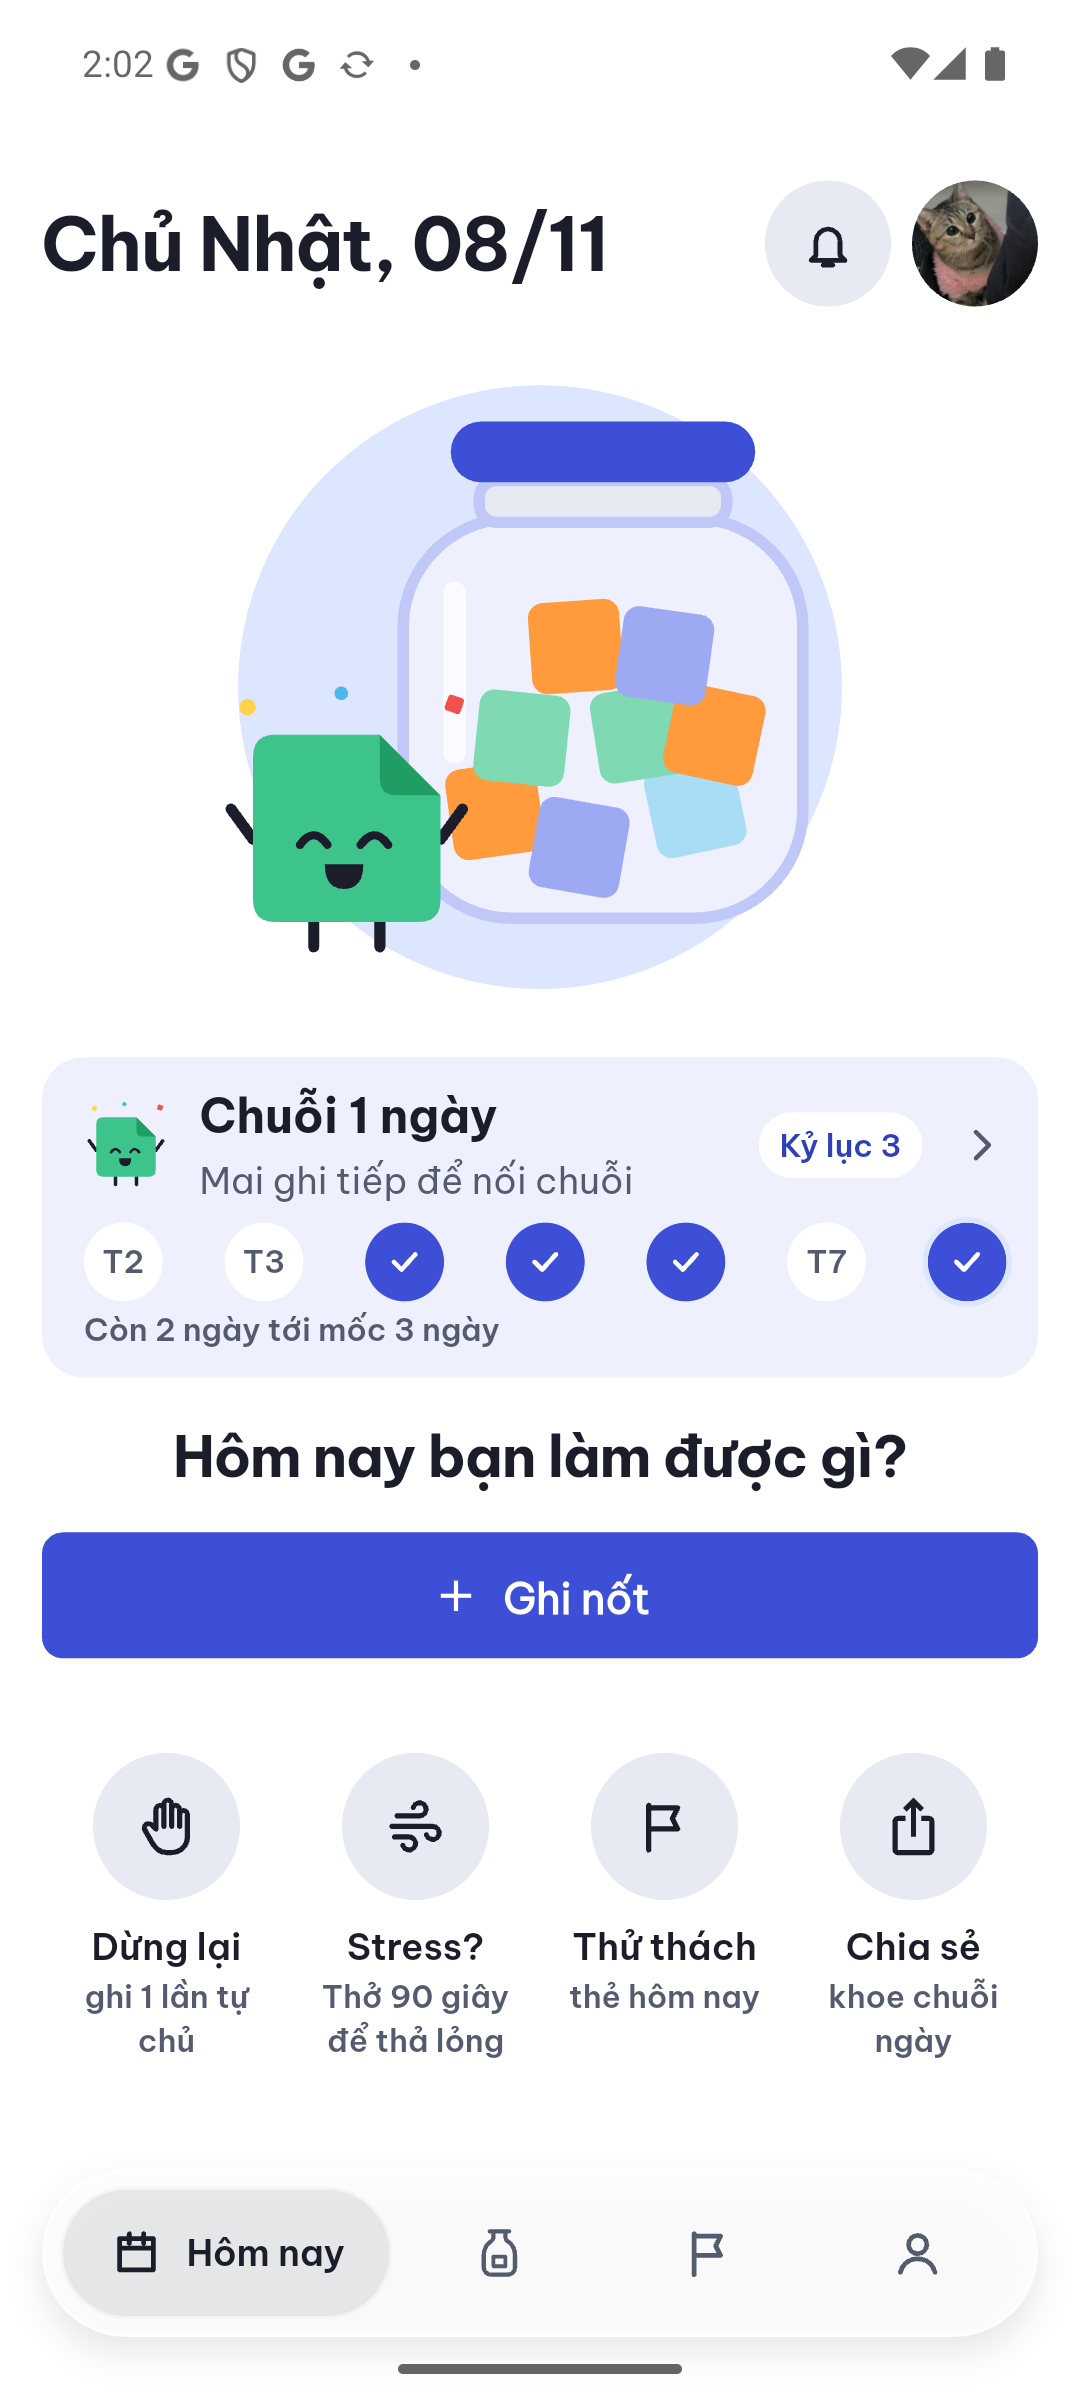
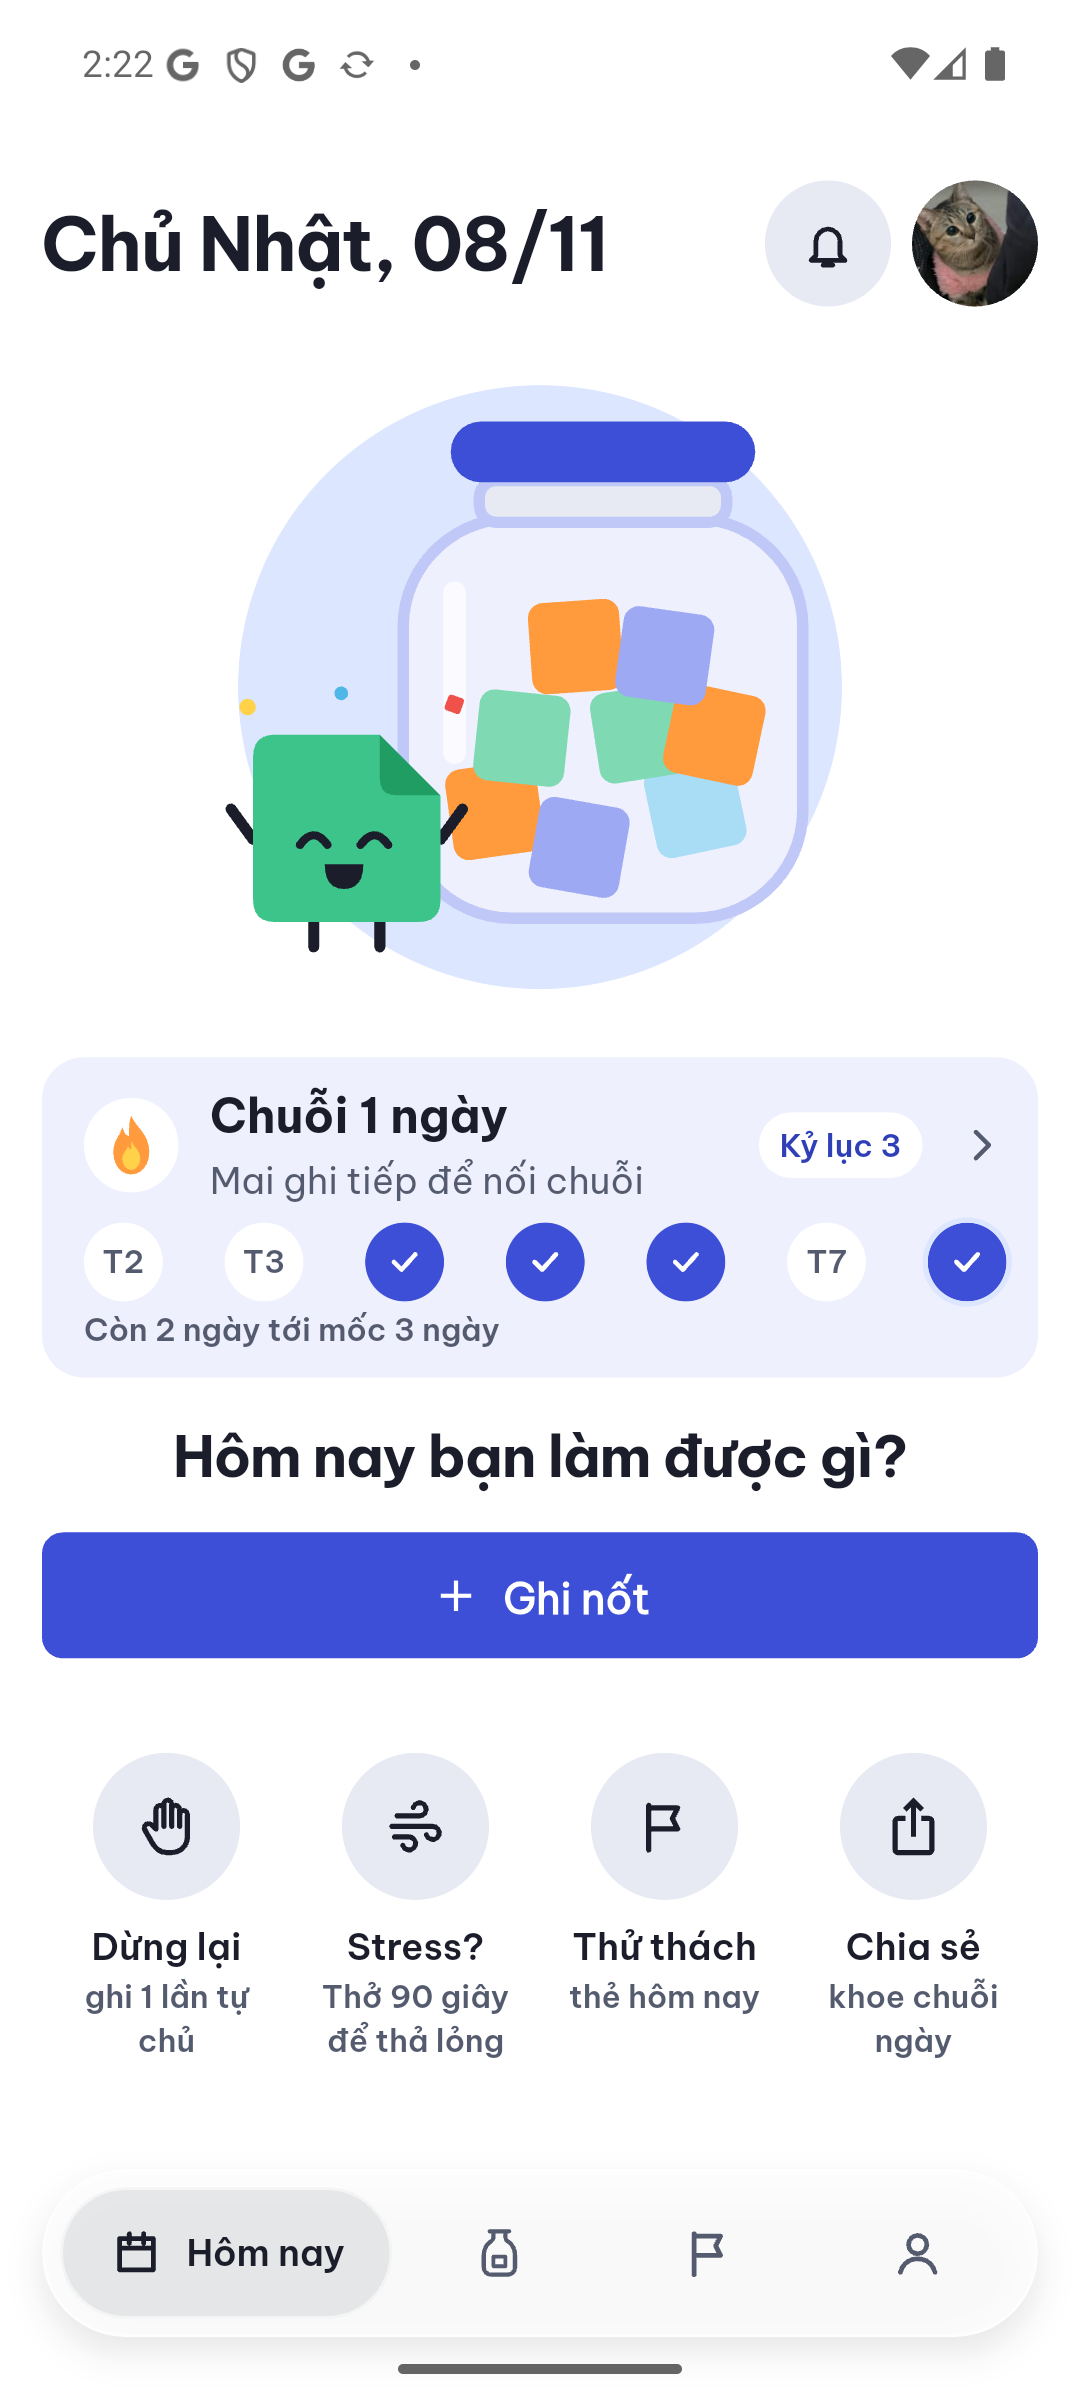
feat(streak): use a flat flame instead of a mascot on the streak card
A small Tụi Nốt at the top of the card repeated the big mascot by the
jar right above it and read as a duplicate. The card now shows a flat
two-tone flame (heat4 / heat3 from the app palette) in a white circle,
grey when there is no streak yet. Both icons are new SVGs in
assets/icons/.

Changed region(s): [[0.1833, 0.4375, 0.5806, 0.5], [0.0917, 0.4375, 0.1528, 0.5]]

diff --git a/lib/widgets/streak_card.dart b/lib/widgets/streak_card.dart
@@ -5,16 +5,15 @@ import '../models/streak.dart';
 import '../theme/app_colors.dart';
 import '../theme/app_tokens.dart';
 import '../utils/vi_date_format.dart';
-import 'mascot.dart';
 
 /// Thẻ chuỗi ngày ở S02: số ngày liền có nốt, kỷ lục, 7 ngày gần nhất và
 /// tiến độ tới mốc kế tiếp. Chạm để mở Thống kê (S11b).
 ///
-/// Theo phong cách của app (góp ý của giảng viên): nền lavender như hũ ở trên,
-/// Tụi Nốt (đổi nét mặt theo chuỗi) thay cho icon lửa của Material, dải 7 ngày có nhãn thứ như lịch
-/// S11c, và chỉ dùng màu primary cho phần "đã làm" để thẻ không lệch tông cam
-/// với nút Ghi nốt bên dưới. Thẻ vẫn gọn để các lối tắt còn với tới trên màn
-/// 360 × 800.
+/// Theo phong cách của app (góp ý của giảng viên): nền lavender như hũ ở trên;
+/// ngọn lửa vẽ phẳng trong ô trắng (xám khi chưa có chuỗi) thay cho icon lửa
+/// của Material, không trùng mascot ở hũ ngay phía trên; 7 ô ngày chia đều;
+/// màu primary cho phần "đã làm" để thẻ không lệch tông với nút Ghi nốt. Thẻ
+/// vẫn gọn để các lối tắt còn với tới trên màn 360 × 800.
 class StreakCard extends StatelessWidget {
   const StreakCard({required this.streak, this.onTap, super.key});
 
@@ -40,13 +39,11 @@ class StreakCard extends StatelessWidget {
     final milestone = next == null
         ? 'Đã qua mốc ${StreakMilestones.days.last} ngày'
         : 'Còn $daysToNext ngày tới mốc $next ngày';
-    // Nét mặt theo chuỗi: chưa có thì Nốt ngủ chờ, hôm nay đã ghi thì Nốt vui,
-    // chưa ghi thì Nốt đợi. Không dùng Nốt Cháy (mặt nhăn, dễ hiểu là kiệt sức).
-    final face = switch ((streak.current, streak.activeToday)) {
-      (0, _) => MascotState.ngu,
-      (_, true) => MascotState.xong,
-      _ => MascotState.doi,
-    };
+    // Ngọn lửa vẽ phẳng theo bảng màu app (heat4 / heat3); chưa có chuỗi thì
+    // lửa xám, "đã tắt".
+    final flame = streak.current == 0
+        ? 'assets/icons/streak-flame-off.svg'
+        : 'assets/icons/streak-flame.svg';
 
     return Semantics(
       button: onTap != null,
@@ -78,7 +75,23 @@ class StreakCard extends StatelessWidget {
                 Row(
                   spacing: AppSpace.s12,
                   children: <Widget>[
-                    Mascot(state: face, size: 36),
+                    DecoratedBox(
+                      decoration: BoxDecoration(
+                        shape: BoxShape.circle,
+                        color: scheme.surface,
+                      ),
+                      child: SizedBox.square(
+                        dimension: 36,
+                        child: Center(
+                          child: SvgPicture.asset(
+                            flame,
+                            width: 20,
+                            height: 24,
+                            excludeFromSemantics: true,
+                          ),
+                        ),
+                      ),
+                    ),
                     Expanded(
                       child: Column(
                         crossAxisAlignment: CrossAxisAlignment.start,
